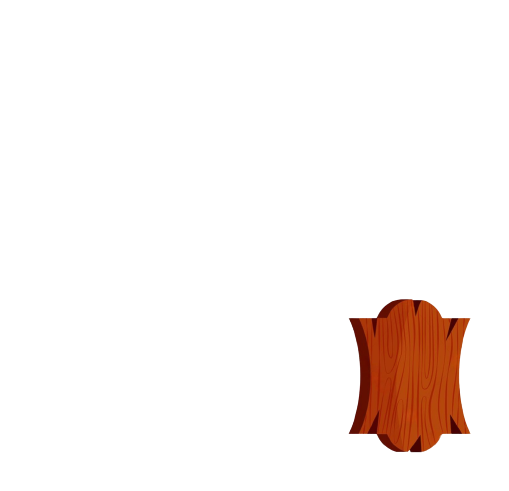
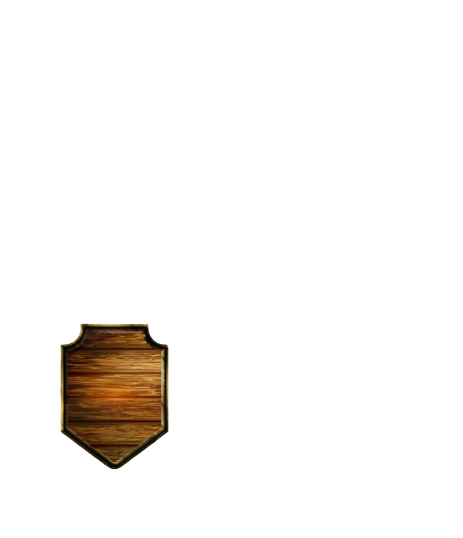
[ADD] skin_bg

Changed region(s): [[0.6652, 0.611, 0.9374, 0.947], [0.121, 0.5804, 0.3629, 0.8859]]

diff --git a/src/menu/position.c b/src/menu/position.c
@@ -17,12 +17,28 @@ int set_pos_menu(menu_t *menu, btn_t *btn)
     sfSprite_setPosition(btn->about_btn.sprite, btn->about_btn.pos);
     sfSprite_setPosition(btn->next_btn.sprite, btn->next_btn.pos);
     sfSprite_setPosition(btn->prev_btn.sprite, btn->prev_btn.pos);
-    sfSprite_setPosition(menu->cursor.sprite, menu->cursor.pos);
     sfSprite_setPosition(menu->red_skin.sprite, menu->red_skin.pos);
     sfSprite_setPosition(menu->brown_skin.sprite, menu->brown_skin.pos);
     sfSprite_setPosition(menu->blue_skin.sprite, menu->blue_skin.pos);
     sfSprite_setPosition(menu->sign_settings.sprite, menu->sign_settings.pos);
     sfSprite_setPosition(menu->sign_skin.sprite, menu->sign_skin.pos);
+    for (int i = 0; i != 5; ++i)
+        sfSprite_setPosition(menu->bg_skin[i].sprite, menu->bg_skin[i].pos);
+    return (0);
+}
+
+static int init_pos_conf(menu_t *menu)
+{
+    menu->sign_skin.pos = (sfVector2f){615, 0};
+    menu->red_skin.pos = (sfVector2f){572, 350};
+    menu->brown_skin.pos = (sfVector2f){872, 350};
+    menu->blue_skin.pos = (sfVector2f){1172, 350};
+    menu->bg_skin[0].pos = (sfVector2f){495, -100};
+    menu->bg_skin[3].pos = (sfVector2f){642, 150};
+    menu->bg_skin[4].pos = (sfVector2f){952, 150};
+    for (int i = 1; i != 3; ++i)
+        menu->bg_skin[i].pos = (sfVector2f)
+        {menu->bg_skin[i - 1].pos.x + 300, -100};
     return (0);
 }
 
@@ -36,12 +52,8 @@ int init_pos_menu(menu_t *menu, btn_t *btn)
     btn->about_btn.pos = (sfVector2f){520, 138};
     btn->next_btn.pos = (sfVector2f){1325, -70};
     btn->prev_btn.pos = (sfVector2f){10, -70};
-    menu->cursor.pos = (sfVector2f){520, 200};
-    menu->red_skin.pos = (sfVector2f){100, 400};
-    menu->brown_skin.pos = (sfVector2f){300, 400};
-    menu->blue_skin.pos = (sfVector2f){500, 400};
     menu->sign_settings.pos = (sfVector2f){615, 0};
-    menu->sign_skin.pos = (sfVector2f){615, 0};
+    init_pos_conf(menu);
     set_pos_menu(menu, btn);
     return (0);
 }

diff --git a/src/menu/scale.c b/src/menu/scale.c
@@ -15,12 +15,13 @@ int set_scale_menu(menu_t *menu, btn_t *btn)
     sfSprite_setScale(btn->up_btn.sprite, btn->up_btn.scale);
     sfSprite_setScale(btn->music_btn.sprite, btn->music_btn.scale);
     sfSprite_setScale(btn->about_btn.sprite, btn->about_btn.scale);
-    sfSprite_setScale(menu->cursor.sprite, menu->cursor.scale);
     sfSprite_setScale(menu->red_skin.sprite, menu->red_skin.scale);
     sfSprite_setScale(menu->brown_skin.sprite, menu->brown_skin.scale);
     sfSprite_setScale(menu->blue_skin.sprite, menu->blue_skin.scale);
     sfSprite_setScale(menu->sign_settings.sprite, menu->sign_settings.scale);
     sfSprite_setScale(menu->sign_skin.sprite, menu->sign_skin.scale);
+    for (int i = 0; i != 5; ++i)
+        sfSprite_setScale(menu->bg_skin[i].sprite, menu->bg_skin[i].scale);
     return (0);
 }
 
@@ -32,12 +33,13 @@ int init_scale_menu(menu_t *menu, btn_t *btn)
     btn->about_btn.scale = (sfVector2f){0.8, 0.8};
     btn->down_btn.scale = (sfVector2f){0.4, 0.4};
     btn->up_btn.scale = (sfVector2f){0.4, 0.4};
-    menu->cursor.scale = (sfVector2f){0.15, 0.15};
-    menu->red_skin.scale = (sfVector2f){3, 3};
-    menu->brown_skin.scale = (sfVector2f){3, 3};
-    menu->blue_skin.scale = (sfVector2f){3, 3};
+    menu->red_skin.scale = (sfVector2f){2.7, 2.7};
+    menu->brown_skin.scale = (sfVector2f){2.7, 2.7};
+    menu->blue_skin.scale = (sfVector2f){2.7, 2.7};
     menu->sign_settings.scale = (sfVector2f){1.2, 1.2};
     menu->sign_skin.scale = (sfVector2f){1.2, 1.2};
+    for (int i = 0; i != 5; ++i)
+        menu->bg_skin[i].scale = (sfVector2f){1.4, 1.4};
     set_scale_menu(menu, btn);
     return (0);
 }

diff --git a/src/menu/path.c b/src/menu/path.c
@@ -9,18 +9,19 @@
 
 static int set_path_menu_conf(menu_t *menu)
 {
-    menu->cursor.sprite =
-    init_sprite("ressources/menu/cursor.png", menu->cursor.texture, 1, 1);
     menu->red_skin.sprite =
-    init_sprite("ressources/player/player_2.png", menu->red_skin.texture, 1, 1);
+    init_sprite("ressources/player/player_2.png",
+    menu->red_skin.texture, 1, 1);
     menu->brown_skin.sprite =
-    init_sprite("ressources/player/player.png", menu->brown_skin.texture, 1, 1);
+    init_sprite("ressources/player/player.png",
+    menu->brown_skin.texture, 1, 1);
     menu->blue_skin.sprite =
-    init_sprite("ressources/player/player_3.png", menu->blue_skin.texture, 1, 1);
+    init_sprite("ressources/player/player_3.png",
+    menu->blue_skin.texture, 1, 1);
     menu->sign_skin.sprite =
     init_sprite("ressources/menu/sign_skin.png",
     menu->blue_skin.texture, 1, 1);
-    for (int i = 0; i != 4; ++i)
+    for (int i = 0; i != 5; ++i)
         menu->bg_skin[i].sprite = init_sprite("ressources/menu/bg_skin.png",
         menu->blue_skin.texture, 1, 1);
     return (0);

diff --git a/src/menu/display.c b/src/menu/display.c
@@ -29,8 +29,9 @@ int display_menu_conf(menu_t *menu, game_t *game, btn_t *btn)
     sfRenderWindow_clear(game->window.window, sfBlack);
     sfRenderWindow_drawSprite
     (game->window.window, game->background.sprite, NULL);
-    sfRenderWindow_drawSprite
-    (game->window.window, menu->cursor.sprite, NULL);
+    for (int i = 0; i != 5; ++i)
+        sfRenderWindow_drawSprite
+        (game->window.window, menu->bg_skin[i].sprite, NULL);
     sfRenderWindow_drawSprite
     (game->window.window, menu->red_skin.sprite, NULL);
     sfRenderWindow_drawSprite
@@ -41,9 +42,6 @@ int display_menu_conf(menu_t *menu, game_t *game, btn_t *btn)
     (game->window.window, btn->prev_btn.sprite, NULL);
     sfRenderWindow_drawSprite
     (game->window.window, menu->sign_skin.sprite, NULL);
-    for (int i = 0; i != 4; ++i)
-        sfRenderWindow_drawSprite
-        (game->window.window, menu->bg_skin[i].sprite, NULL);
     sfRenderWindow_display(game->window.window);
     return (0);
 }

diff --git a/src/main.c b/src/main.c
@@ -11,15 +11,15 @@
 
 int main(int ac, char **av)
 {
-    game_t game;
-    menu_t menu;
+    game_t *game = malloc(sizeof(game_t));
+    menu_t *menu = malloc(sizeof(menu_t));
     btn_t btn;
 
     if (ac <= 1 || my_strlen(av[1]) != 1) {
         my_putstr("Invalid Argument l'hmar\n");
         return (84);
     }
-    game.player.check_player = my_getnbr(av[1]);
-    my_rpg(&game, &menu, &btn);
+    game->player.check_player = my_getnbr(av[1]);
+    my_rpg(game, menu, &btn);
     return (0);
 }

diff --git a/includes/menu.h b/includes/menu.h
@@ -44,7 +44,6 @@ typedef struct btn_s {
 } btn_t;
 
 typedef struct menu_s {
-    param_t cursor;
     param_t red_skin;
     param_t brown_skin;
     param_t blue_skin;
